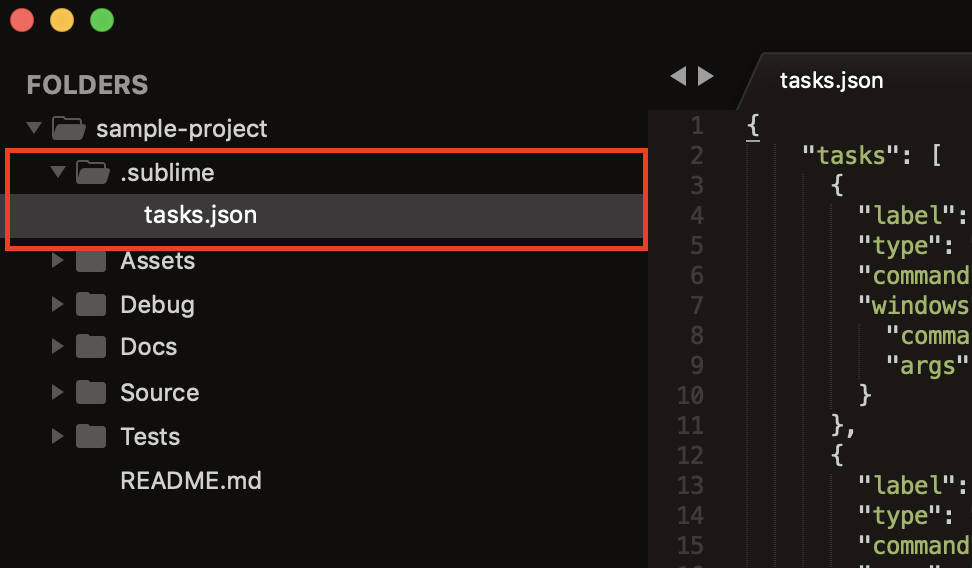
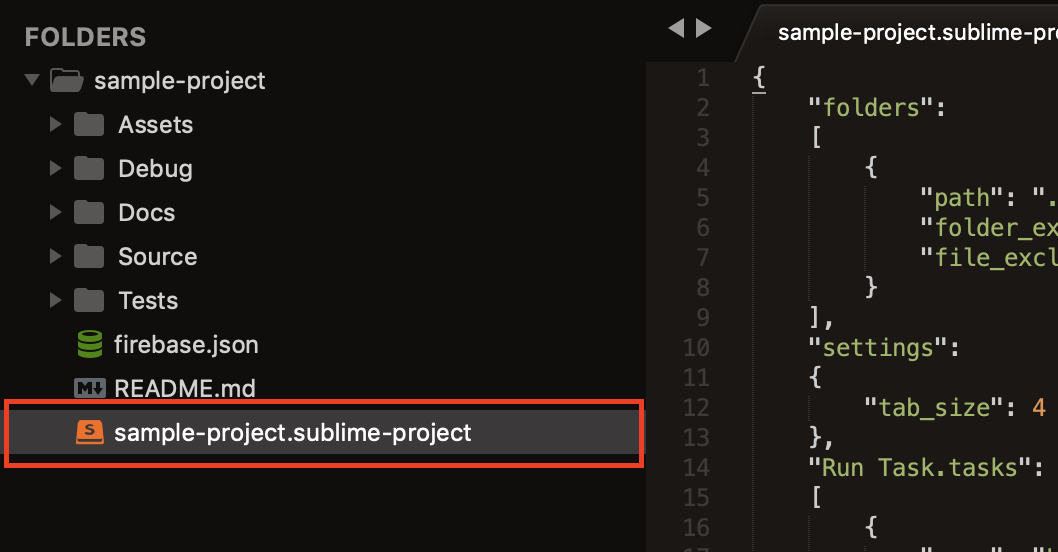
Move JSON tasks definitions to .sublime-project file
The JSON tasks definitions have been moved to `.sublime-project` file
to better integrate with Sublime project files and reduce the number of
required setup files.

Additionally, the `label` task definition key has been renamed to `name`.

The described changes have been reflected in the README file.

diff --git a/run_task.py b/run_task.py
@@ -1,5 +1,6 @@
 import sublime
 import sublime_plugin
+import fnmatch
 import os
 import json
 import subprocess
@@ -9,12 +10,11 @@ import threading
 
 PLUGIN_NAME = "Run Task"
 
-SUBLIME_FOLDER_NAME = ".sublime"
-TASKS_FILE_NAME = "tasks.json"
+PROJECT_FILE_NAME_PATTERN = "*.sublime-project"
 OUTPUT_PANEL_NAME = "run_task"
 
-JSON_TASKS_KEY = "tasks"
-JSON_TASK_LABEL_KEY = "label"
+JSON_TASKS_KEY = PLUGIN_NAME + ".tasks"
+JSON_TASK_NAME_KEY = "name"
 JSON_TASK_TYPE_KEY = "type"
 JSON_TASK_COMMAND_KEY = "command"
 JSON_TASK_ARGS_KEY = "args"
@@ -45,6 +45,13 @@ class OSUtils():
 		return None
 
 	@staticmethod
+	def find_file_with_pattern(path, pattern):
+		file = next((file for file in os.listdir(path) if os.path.isfile(os.path.join(path, file)) and fnmatch.fnmatch(file, pattern)), None)
+		if file:
+			return os.path.join(path, file)
+		return None
+
+	@staticmethod
 	def is_windows():
 		return os.name == 'nt'
 
@@ -57,7 +64,7 @@ class ErrorMessage():
 	EXPECTED_NON_EMPTY_STRING = 'Expected a non-empty string with at least one non-whitespace character.'
 	EXPECTED_TASK_TYPE = 'Expected "' + SHELL_TASK_TYPE + '" or "' + SUBLIME_TASK_TYPE + '".'
 
-	CHECK_CONFIGURATION_FILE = 'Please check the tasks configuration file (' + TASKS_FILE_NAME + ').'
+	CHECK_CONFIGURATION_FILE = 'Please check the .sublime-project file.'
 
 	@staticmethod
 	def invalid_json():
@@ -91,8 +98,8 @@ class ErrorMessage():
 		return 'Missing required field "' + field_name + '".'
 
 	@staticmethod
-	def task_execution_failed(task_label, execution_error_message=None):
-		error_message = PLUGIN_NAME + ': Execution failed for task "' + task_label + '".'
+	def task_execution_failed(task_name, execution_error_message=None):
+		error_message = PLUGIN_NAME + ': Execution failed for task "' + task_name + '".'
 		if execution_error_message is not None:
 			error_message += '\n\nError message: ' + execution_error_message
 		return error_message
@@ -116,9 +123,9 @@ class OutputPanel():
 
 
 class ShellTaskThread(threading.Thread):
-	def __init__(self, task_label, window, args=[], cwd=None, show_output_panel=False):
+	def __init__(self, task_name, window, args=[], cwd=None, show_output_panel=False):
 		super(ShellTaskThread, self).__init__(self)
-		self.task_label = task_label
+		self.task_name = task_name
 		self.window = window
 		self.args = args
 		self.cwd = cwd
@@ -131,7 +138,7 @@ class ShellTaskThread(threading.Thread):
 			try:
 				process = subprocess.Popen(self.args, bufsize=1, stdout=subprocess.PIPE, stderr=subprocess.STDOUT, cwd=self.cwd, universal_newlines=True)
 			except Exception as ex:
-				sublime.error_message(ErrorMessage.task_execution_failed(self.task_label, str(ex)))
+				sublime.error_message(ErrorMessage.task_execution_failed(self.task_name, str(ex)))
 				return
 			while True:
 				out_line = process.stdout.readline()
@@ -146,24 +153,24 @@ class ShellTaskThread(threading.Thread):
 			try:
 				subprocess.Popen(self.args, cwd=self.cwd)
 			except Exception as ex:
-				sublime.error_message(ErrorMessage.task_execution_failed(self.task_label, str(ex)))
+				sublime.error_message(ErrorMessage.task_execution_failed(self.task_name, str(ex)))
 
 
 class Task():
-	def __init__(self, label, task_type, command, args, show_output_panel):
-		self.label = label
+	def __init__(self, name, task_type, command, args, show_output_panel):
+		self.name = name
 		self.task_type = task_type
 		self.command = command
 		self.args = args
 		self.show_output_panel = show_output_panel
 
-	def get_label(self):
-		return self._label
+	def get_name(self):
+		return self._name
 
-	def set_label(self, value):
-		self._label = value
+	def set_name(self, value):
+		self._name = value
 
-	label = property(get_label, set_label)
+	name = property(get_name, set_name)
 
 	def get_task_type(self):
 		return self._task_type
@@ -208,7 +215,7 @@ class Task():
 				args.extend(shlex.split(self.args.strip()))
 			for idx, arg in enumerate(args):
 				args[idx] = arg.replace(VARIABLE_CWD, cwd)
-			ShellTaskThread(self.label, window, args, cwd, self.show_output_panel).start()
+			ShellTaskThread(self.name, window, args, cwd, self.show_output_panel).start()
 
 
 class TaskParser():
@@ -229,10 +236,10 @@ class TaskParser():
 		return tasks, None
 
 	def parse_task(self, task_json):
-		label, task_type, command, args, windows_config, show_output_panel = (None, None, None, None, None, None)
+		name, task_type, command, args, windows_config, show_output_panel = (None, None, None, None, None, None)
 		parse_error_msg = None
 		if type(task_json) is dict:
-			label, parse_error_msg = self.__parse_task_label(task_json)
+			name, parse_error_msg = self.__parse_task_name(task_json)
 			if parse_error_msg is None:
 				task_type, parse_error_msg = self.__parse_task_type(task_json)
 			if parse_error_msg is None:
@@ -250,17 +257,17 @@ class TaskParser():
 				show_output_panel, parse_error_msg = self.__parse_task_show_output_panel(task_json)
 		if parse_error_msg is not None:
 			return None, parse_error_msg
-		return Task(label, task_type, command, args, show_output_panel), None
+		return Task(name, task_type, command, args, show_output_panel), None
 
-	def __parse_task_label(self, task_json):
-		task_label = None
-		if JSON_TASK_LABEL_KEY in task_json:
-			task_label = task_json[JSON_TASK_LABEL_KEY]
+	def __parse_task_name(self, task_json):
+		task_name = None
+		if JSON_TASK_NAME_KEY in task_json:
+			task_name = task_json[JSON_TASK_NAME_KEY]
 		else:
-			return None, ErrorMessage.missing_required_field(JSON_TASK_LABEL_KEY)
-		if type(task_label) is not str or task_label.strip() == "":
-			return None, ErrorMessage.invalid_field_value(JSON_TASK_LABEL_KEY, ErrorMessage.EXPECTED_NON_EMPTY_STRING)
-		return task_label.strip(), None
+			return None, ErrorMessage.missing_required_field(JSON_TASK_NAME_KEY)
+		if type(task_name) is not str or task_name.strip() == "":
+			return None, ErrorMessage.invalid_field_value(JSON_TASK_NAME_KEY, ErrorMessage.EXPECTED_NON_EMPTY_STRING)
+		return task_name.strip(), None
 
 	def __parse_task_type(self, task_json):
 		task_type = None
@@ -330,28 +337,25 @@ class RunTaskCommand(sublime_plugin.WindowCommand):
 		self.workspace = folders[0]
 		self.tasks = []
 
-		sublime_folder = OSUtils.find_directory(self.workspace, SUBLIME_FOLDER_NAME)
-
-		if sublime_folder:
-			tasks_file = OSUtils.find_file(sublime_folder, TASKS_FILE_NAME)
-			if tasks_file:
-				with open(tasks_file, "r") as fp:
-					try:
-						tasks_json = json.load(fp)
-						self.tasks, parse_error_msg = TaskParser().parse_tasks(tasks_json)
-						if parse_error_msg is not None:
-							sublime.error_message(parse_error_msg)
-							return
-					except ValueError:
-						sublime.error_message(ErrorMessage.invalid_json())
+		project_file = OSUtils.find_file_with_pattern(self.workspace, PROJECT_FILE_NAME_PATTERN)
+		if project_file:
+			with open(project_file, "r") as fp:
+				try:
+					tasks_json = json.load(fp)
+					self.tasks, parse_error_msg = TaskParser().parse_tasks(tasks_json)
+					if parse_error_msg is not None:
+						sublime.error_message(parse_error_msg)
 						return
-				if len(self.tasks) > 0:
-					labels = list(map(lambda task: task.label, self.tasks))
-					self.window.show_quick_panel(labels, self.on_done, sublime.MONOSPACE_FONT, 0, None)
+				except ValueError:
+					sublime.error_message(ErrorMessage.invalid_json())
+					return
+			if len(self.tasks) > 0:
+				labels = list(map(lambda task: task.name, self.tasks))
+				self.window.show_quick_panel(labels, self.on_done, sublime.MONOSPACE_FONT, 0, None)
 
 	def on_done(self, taskIndex):
 		if taskIndex < 0 or taskIndex >= len(self.tasks):
 			return
 		selectedTask = self.tasks[taskIndex]
-		print(PLUGIN_NAME + ': Running task "' + selectedTask.label + '"')
+		print(PLUGIN_NAME + ': Running task "' + selectedTask.name + '"')
 		selectedTask.execute(window=self.window, cwd=self.workspace)

diff --git a/README.md b/README.md
@@ -25,19 +25,32 @@ Run Task package can be installed manually by cloning this Git repository into y
 
 ## Usage
 
-In a root directory of your project, create a folder named `.sublime`, and then inside that folder create a file named `tasks.json`.
+Open or create the `.sublime-project` file, which is the file that contains your project definition. 
 
 <p>
-	<img src="docs/usage_screenshot.png" alt="Usage" width="50%" draggable="false">
+    <img src="docs/usage_screenshot.png" alt="Usage" width="50%" draggable="false">
 </p>
 
-Open the created `tasks.json` file and add JSON tasks definitions, as in the example below. Please note that all tasks definitions must be contained in the top level `tasks` array.
+Add `Run Task.tasks` top level section with JSON tasks definitions, as in the example below.
 
 ```json
 {
-    "tasks": [
+    "folders":
+    [
         {
-            "label": "Run Unit Tests",
+            "path": ".",
+            "folder_exclude_patterns": [".idea", ".vscode"],
+            "file_exclude_patterns": [".gitignore", ".gitattributes", ".gitmodules", ".firebaserc"]
+        }
+    ],
+    "settings":
+    {
+        "tab_size": 4
+    },
+    "Run Task.tasks": 
+    [
+        {
+            "name": "Run Unit Tests",
             "type": "shell",
             "command": "./Tests/run_unit_tests.sh",
             "windows": {
@@ -46,7 +59,7 @@ Open the created `tasks.json` file and add JSON tasks definitions, as in the exa
             }
         },
         {
-            "label": "Start Local Web Server",
+            "name": "Start Local Web Server",
             "type": "shell",
             "command": "osascript",
             "args": "-e 'tell app \"Terminal\" to activate' -e 'tell app \"Terminal\" to do script \"cd ${cwd} && ./Debug/run-http-server.sh\"'",
@@ -57,7 +70,7 @@ Open the created `tasks.json` file and add JSON tasks definitions, as in the exa
             "show_output_panel": false
         },
         {
-            "label": "Generate Docs",
+            "name": "Generate Docs",
             "type": "shell",
             "command": "./Source/scripts/generate_docs.sh",
             "windows": {
@@ -69,11 +82,11 @@ Open the created `tasks.json` file and add JSON tasks definitions, as in the exa
 }
 ```
 
-Apart from shell commands, Run Task also supports running a Sublime Text window command. For example, for a task that launches a terminal, one may want to use a `open_terminal_project_folder` window command from [Terminal](https://github.com/wbond/sublime_terminal) package. This can be achieved with the following task definition:
+Apart from shell commands, Run Task also supports running Sublime Text window commands. For example, for a task that launches a terminal, one may want to use a `open_terminal_project_folder` window command from [Terminal](https://github.com/wbond/sublime_terminal) package. This can be achieved with the following task definition:
 
 ```json
 {
-    "label": "Start Local Web Server",
+    "name": "Start Local Web Server",
     "type": "sublime",
     "command": "open_terminal_project_folder",
     "args": {
@@ -90,7 +103,7 @@ Run Task supports the following set of task properties and values:
 
 | Property           | Required | Type                     | Value                                               |
 |--------------------|----------|--------------------------|-----------------------------------------------------|
-| label              | YES      | string                   | The task's name displayed in Sublime's quick panel. |
+| name              | YES      | string                   | The task's name displayed in Sublime's quick panel. |
 | type               | YES      | string                   | The task's type. It can either be `shell` or `sublime`. If `shell` is specified, the `command` is interpreted as a shell command to execute. If `sublime` is specified, the `command` is interpreted as a Sublime Text window command to execute. |
 | command            | YES      | string                   | The command to execute. It must be a valid shell command or Sublime Text window command name, depending on the `type` specified. For the shell commmand to work, the specified executable must be in your _PATH_. |
 | args               | NO       | string, array, or object | The arguments to be passed to the `command`. For a task of type `shell` it can either be a string or array. For a task of type `sublime` it must be a JSON object. |
@@ -111,7 +124,7 @@ Example:
 
 ```json
 {
-    "label": "Variable Substitution Test",
+    "name": "Variable Substitution Test",
     "type": "shell",
     "command": "./Debug/script.sh",
     "args": ["CWD:", "${cwd}"],
